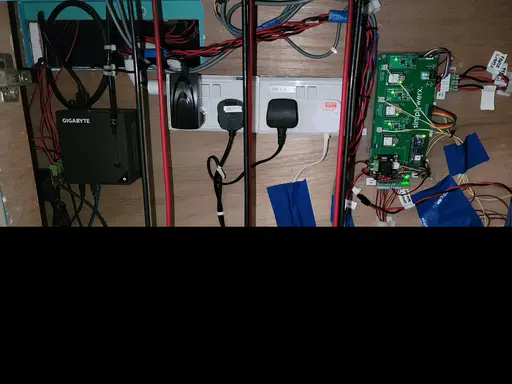
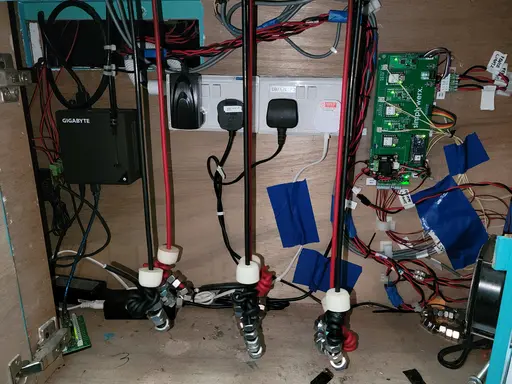
added new portfolio items

diff --git a/_portfolio/lion_fence.md b/_portfolio/lion_fence.md
@@ -1,0 +1,28 @@
+---
+caption: #what displays in the portfolio grid:
+  title: Lion Fence
+  subtitle: A hands‑on interactive with electromagnets
+  thumbnail: "assets/img/optimized-small/Lion Fence On.webp"
+  
+#what displays when the item is clicked:
+title: Lion Fence
+subtitle: An interactive circuit challenge with electromagnets, RFID, and flashing lights
+image: "assets/img/optimized-large/Lion Fence On.png" #main image, can be a link or a file in assets/img/portfolio
+alt: An interactive circuit challenge with electromagnets, RFID, and flashing lights
+
+---
+Kids learn how to “complete the circuit” by inserting the correct cable into the matching socket. When the circuit is completed, flashing lights activate to “keep away the lions,” making the challenge both fun and educational
+
+<img src="assets/img/optimized-large/IMG-20251009-WA0002.jpg" alt="Custom fabricated socket and plug to house electromagnet and RFID" class="img-fluid w-75">
+
+The system combines electromagnets, customized RFID antennas, and embedded RFID tags. Inserting the correct cable energizes an electromagnet at the socket. After a timed interval, the electromagnets automatically switch off, causing the cables to retract back into their holders — resetting the puzzle for the next participant.
+
+<video controls style="max-width: 600px; width: 100%; max-height: 600px; height: 100%;" preload="none">
+  <source data-src="assets/video/Lion Fence Full_low_res.mp4" type="video/mp4">
+  Your browser does not support the video tag.
+</video>
+
+{:.list-inline} 
+- Client: Science Centre Singapore
+- Category: Electrical & Mechanical Engineering
+

diff --git a/_portfolio/healthy_plate.md b/_portfolio/healthy_plate.md
@@ -1,0 +1,25 @@
+---
+caption:
+  title: Healthy Plate
+  subtitle: A hands‑on educational exhibit for kids
+  thumbnail: "assets/img/optimized-small/Healthy Plate 2.webp"
+
+title: Tap, Learn, and Play with Food
+subtitle: Kids use specialized spoons to tap on the correct food items. The digital interactive game guides them to select the right food groups, teaching balanced nutrition through fun, hands‑on play.
+image: "assets/img/optimized-large/Healthy Plate 2.png"
+alt: Healthy Plate interactive
+
+---
+
+An interactive, tactile experience that helps children discover the basics of balanced nutrition. Through play and exploration, kids learn how to build a healthy plate, understand food groups, and make smarter eating choices in a fun, memorable way.
+
+<iframe width="100%" height="600" src="https://www.youtube.com/embed/mUi0ZnHfQtk" title="YouTube video player" frameborder="0" allow="accelerometer; autoplay; clipboard-write; encrypted-media; gyroscope; picture-in-picture; web-fullscreen" allowfullscreen></iframe>
+
+Custom‑fabricated touch sensors are synchronized with the spoons, ensuring they respond exclusively to spoon contact. Leveraging advanced electric‑field sensing techniques, the system achieves robust performance with consistently low error rates.
+
+These custom sensors can be adapted to turn virtually any object into a touch target, programmed to recognize only specific actuators — in this case, the spoons — for precise and reliable interaction.
+
+{:.list-inline}
+
+- Client: Science Centre Singapore
+- Category: Electrical & Mechanical Engineering

diff --git a/_portfolio/generator.md b/_portfolio/generator.md
@@ -2,7 +2,7 @@
 caption:
   title: Generator Race
   subtitle: A competitive electromechanical exhibit on energy conversion
-  thumbnail: "assets/img/optimized-small/IMG-20240618-WA0000.webp"
+  thumbnail: "assets/img/optimized-small/IMG-20240906-WA0000.webp"
 
 title: Generating Electrical Energy
 subtitle: Visitors generate electrical energy by spinning a barrel linked to a dynamo.
@@ -17,7 +17,7 @@ This interactive exhibit demonstrates energy conversion through fun, hands-on pl
 
 We solved the engineering challenge of making the exhibit robust enough for unattended play and intuitive enough for visitors to use without instructions. The result is an experience that remains accessible, reliable, and durable in high-traffic environments.
 
-<img src="assets/img/optimized-large/20240912_095519.jpg" alt="Close-up of the generator mechanism and dynamo system" class="img-fluid w-75">
+<iframe width="100%" height="600" src="https://www.youtube.com/embed/8Yw0uq_FTfw" title="YouTube video player" frameborder="0" allow="accelerometer; autoplay; clipboard-write; encrypted-media; gyroscope; picture-in-picture; web-fullscreen" allowfullscreen></iframe>
 
 {:.list-inline}
 

diff --git a/_portfolio/ants.md b/_portfolio/ants.md
@@ -13,7 +13,7 @@ alt: Move The Balls interactive
 
 This interactive exhibit combines playful design with engineering precision, inviting participants to guide balls along a track using levers, switches, and motorized mechanisms. The experience demonstrates principles of motion, control systems, and mechanical feedback in a way that is intuitive and engaging.
 
-<img src="assets/img/optimized-large/IMG-20240306-WA0002.jpg" alt="Move The Balls exhibit with interactive track and controls" class="img-fluid w-75">
+<iframe width="100%" height="600" src="https://www.youtube.com/embed/cN51SotAc3M" title="YouTube video player" frameborder="0" allow="accelerometer; autoplay; clipboard-write; encrypted-media; gyroscope; picture-in-picture; web-fullscreen" allowfullscreen></iframe>
 
 Built with robust electromechanical components and tested for durability, Move The Balls is made to withstand repeated use in public spaces while remaining accessible to visitors of all ages. By blending fun with STEM learning, it turns a simple challenge into a hands-on exploration of engineering concepts.
 

diff --git a/_portfolio/hydraulics.md b/_portfolio/hydraulics.md
@@ -17,7 +17,7 @@ We created a hands-on STEM exhibit that introduces children to hydraulics and th
 
 The project covered concept design, CAD modeling, simulation, prototyping, 3D printing, CNC machining, and extensive user testing to ensure both durability and intuitive operation in a public setting.
 
-<img src="assets/img/optimized-large/IMG-20251103-WA0003.jpg" alt="Close-up of the hydraulic arm mechanism with levers and controls" class="img-fluid w-75">
+<iframe width="100%" height="600" src="https://www.youtube.com/embed/uw1bcroC_Tw" title="YouTube video player" frameborder="0" allow="accelerometer; autoplay; clipboard-write; encrypted-media; gyroscope; picture-in-picture; web-fullscreen" allowfullscreen></iframe>
 
 The interactive has been deployed at Science Centre Singapore and as part of a travelling exhibit that brings STEM learning directly to schools, inspiring young learners to explore engineering through play and discovery.
 
